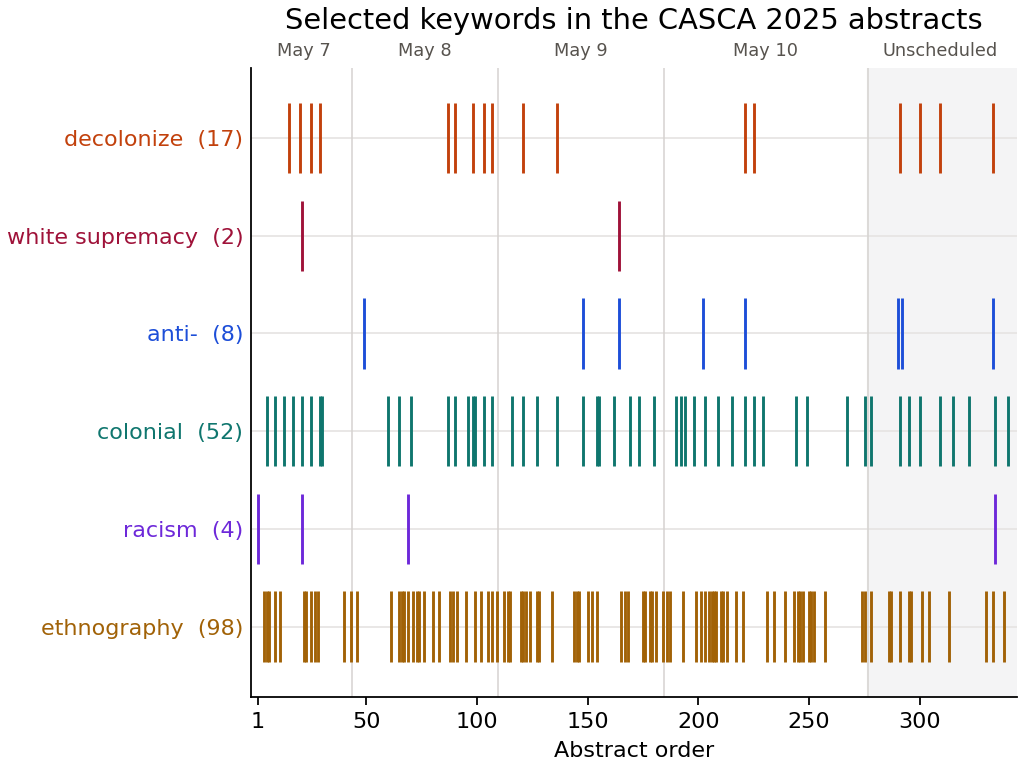
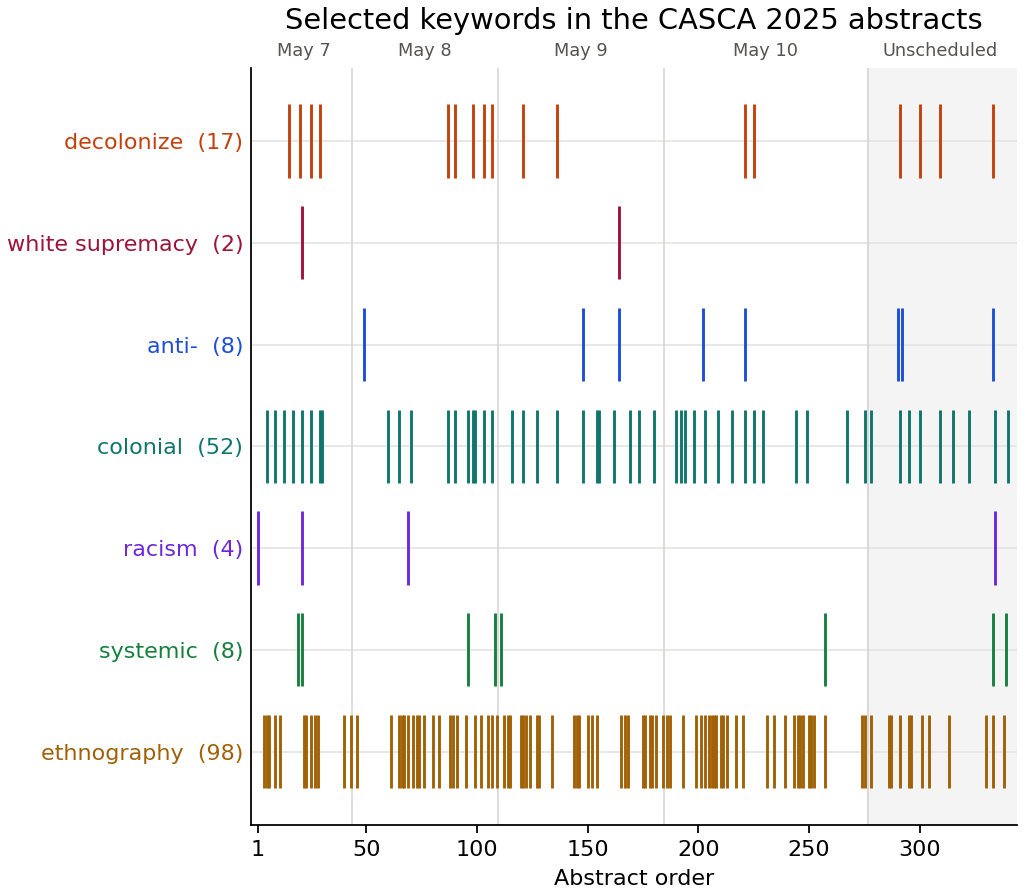
Add systemic keyword search

diff --git a/README.md b/README.md
@@ -13,8 +13,14 @@ The public program does not include presentation type, language, or the submitte
 - `abstracts.md` — readable list. Scheduled presentations come first, in program order. Unscheduled submissions follow, by submission number.
 - `abstracts.csv` — the same records as a spreadsheet.
 - `abstracts.json` — the same records as JSON.
-- `analysis.ipynb` — tick plot of decolonize, white supremacy, anti-, colonial, racism, and ethnography across that order. Running it writes `keyword-ticks.png`.
+- `analysis.ipynb` — tick plot of decolonize, white supremacy, anti-, colonial, racism, systemic, and ethnography across that order. Running it writes `keyword-ticks.png`.
 
 Times are Eastern (`America/Toronto`).
 
 Abstract text belongs to the authors. This repository collects what the public program already publishes.
+
+## Results
+
+![Selected keywords in the CASCA 2025 abstracts](keyword-ticks.png)
+
+Each tick is one abstract, in published order. A tick means the word appears in the title or the abstract. The shaded band is the 65 unscheduled submissions.
